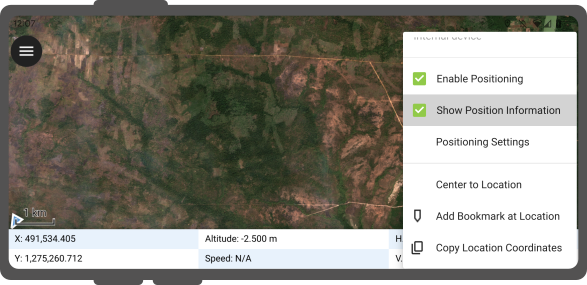
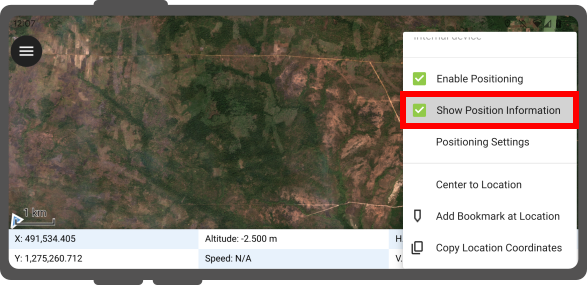
Updating videos and images to latest part 2

Changed region(s): [[0.6746, 0.3088, 1.0, 0.4772]]

diff --git a/documentation/how-to/advanced-how-tos/live-default-value.en.md b/documentation/how-to/advanced-how-tos/live-default-value.en.md
@@ -34,4 +34,4 @@ Examples for this could be species names that are both recorded with the origina
 
     In the video below there is an example of "live" default value updates when editing features on QField.
 
-    !![Live_Default_Value](../../assets/videos/live_default_value.webp)
+    ![type:video](../../assets/videos/live_default_value.webm)

diff --git a/documentation/how-to/advanced-how-tos/standalone-datasets.en.md b/documentation/how-to/advanced-how-tos/standalone-datasets.en.md
@@ -53,4 +53,4 @@ By default, the datasets will be overlaying an OpenStreetMap XYZ layer. It is ho
 
      1. Direct to your project landing page.
      2. Press long on the project you want to have as a basemap
-     !![](../../assets/images/choose_basemap.webp,300px)
+     !![](../../assets/images/choose_basemap.png,300px)

diff --git a/documentation/how-to/navigation-and-positioning/gnss.en.md b/documentation/how-to/navigation-and-positioning/gnss.en.md
@@ -205,7 +205,7 @@ The formats currently supported are:
         A long press on the **GNSS button** will show the **positioning menu**.
         Inside the menu you can turn on the **Show position information** which will show the current coordinates that are reprojected into the CRS of your project along with the precision information.
 
-     !![](../../assets/images/positioning-menu.png)
+     !![](../../assets/images/positioning-menu.png,700px)
 
     !!! note
         If you see WGS 84 lat/lon information instead of information in your project CRS, you probably have no signal yet.